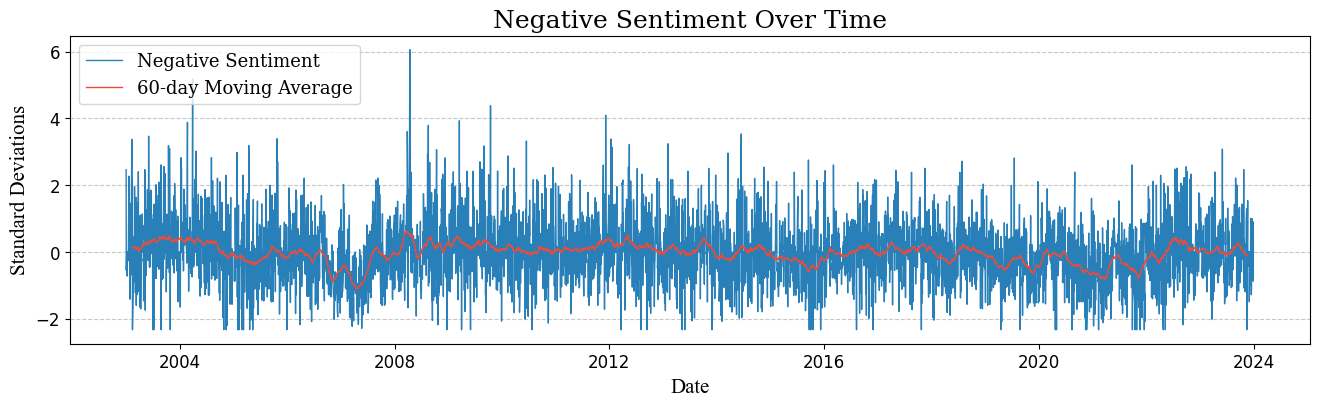
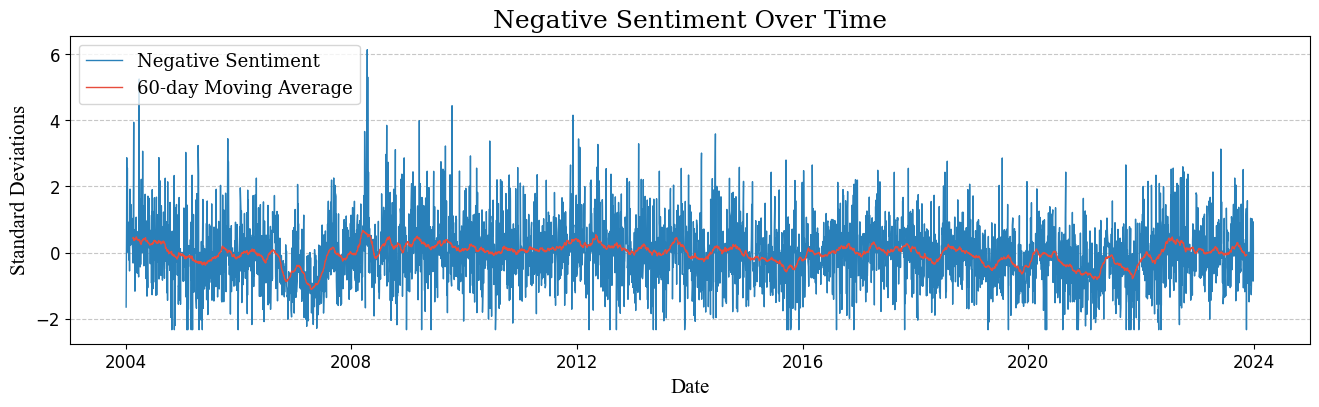
running for data

diff --git a/RYAAY_distribution.py b/RYAAY_distribution.py
@@ -101,20 +101,21 @@ def get_descriptive_stats(returns):
     
     # Print the stats
     print("\nRYAAY Descriptive Statistics", "\\\\")
-    print("textbf{Mean} & ", mean_returns, "\\\\")
-    print("textbf{Mode} & ", mode_returns, "\\\\")
-    print("textbf{Median} & ", median_returns, "\\\\")
-    print("textbf{Standard Deviation} & ", dev_returns, "\\\\")
-    print("textbf{Sample Variance} & ", sample_var_return, "\\\\")
-    print("textbf{Range} & ", data_range_return, "\\\\")
-    print("textbf{Skewness} & ", data_skewness, "\\\\")
-    print("textbf{Kurtosis} & ", data_kurtosis, "\\\\")
-    for lag, autocorr in zip(range(1, lag + 1), autocorrelations):
-        print("textbf{Autocorrelation at Lag", lag, "&", autocorr, "\\\\")
-    print("textbf{Minimum} & ", min_returns, "\\\\")
-    print("textbf{Maximum} & ", max_returns, "\\\\")
-    print("textbf{Count} & ", len(returns), "\\\\")
-    print("textbf{Jarque-Bera p-value} & ", p_value, "\\\\")
+    print("{:.4f} & ".format(mean_returns))
+    print("{:.4f} & ".format(mode_returns))
+    print("{:.4f} & ".format(median_returns))
+    print("{:.4f} & ".format(dev_returns))
+    print("{:.4f} & ".format(sample_var_return))
+    print("{:.4f} & ".format(data_range_return))
+    print("{:.4f} & ".format(data_skewness))
+    print("{:.4f} & ".format(data_kurtosis))
+    for autocorr in autocorrelations:
+        print("{:.4f} & ".format(autocorr))
+    print("{:.4f} & ".format(min_returns))
+    print("{:.4f} & ".format(max_returns))
+    print("{:.4f} & ".format(len(returns)))
+    print("{:.4f} & ".format(p_value))
+
 
 def ectract_close_prices(input_file_path, start_date, end_date):
     prices = []
@@ -163,12 +164,14 @@ mean_returns = np.mean(returns)
 std_returns = np.std(returns)
 
 # Print the returns returns stats
-get_distribution_data(returns)
+#get_distribution_data(returns)
 
 split_indices = get_split_indices(returns, dates)
-for start, end in split_indices:
-    print(f'Period: {dates[start]} - {dates[end + 1]}')
-    get_descriptive_stats(returns[start:end + 1])
+for i in range(10):
+    start = split_indices[i*2][0]
+    end = split_indices[i*2+1][1]
+    print(f'\nPeriod: {dates[start]} - {dates[end]}', end='', flush=True)
+    get_descriptive_stats(returns[start:end])
     
 #get_distribution_data(returns)
 #get_descriptive_stats(returns)

diff --git a/Plot_Trading_days_data.py b/Plot_Trading_days_data.py
@@ -85,7 +85,7 @@ plt.xlabel('Date', fontsize=15, fontname='Times New Roman')
 plt.ylabel('Standard Deviations', fontsize=15, fontname='Times New Roman')
 plt.grid(axis='y', linestyle='--', alpha=0.7)
 plt.tick_params(axis='both', which='major', labelsize=12)
-#plt.savefig('Plots/Negative_Sentiment_Over_Time.png', bbox_inches='tight')
+plt.savefig('Plots/Negative_Sentiment_Over_Time.png', bbox_inches='tight')
 #plt.show()
 
 # Plot data
@@ -163,7 +163,6 @@ print("SUM", sum(list(monthly_counts.values())))
 ######################################
     
 
-
 plt.figure(figsize=(13, 5))
 plt.plot(datetime_objs, list(trading_days_data['Returns']), label='RYAAY Returns', color='#2980b9', linewidth=1)
 plt.title('RYAAY Returns Over Time', fontsize=18, fontfamily='serif')
@@ -173,7 +172,7 @@ plt.xlabel('Date', fontsize=15, fontname='Times New Roman')
 plt.ylabel('Standard Deviations', fontsize=15, fontname='Times New Roman')
 plt.grid(axis='y', linestyle='--', alpha=0.7)
 plt.tick_params(axis='both', which='major', labelsize=10)
-plt.savefig('Plots/Returns_Over_Time.png', bbox_inches='tight')
+#plt.savefig('Plots/Returns_Over_Time.png', bbox_inches='tight')
 #plt.show()
 
 plt.figure(figsize=(11, 6))
